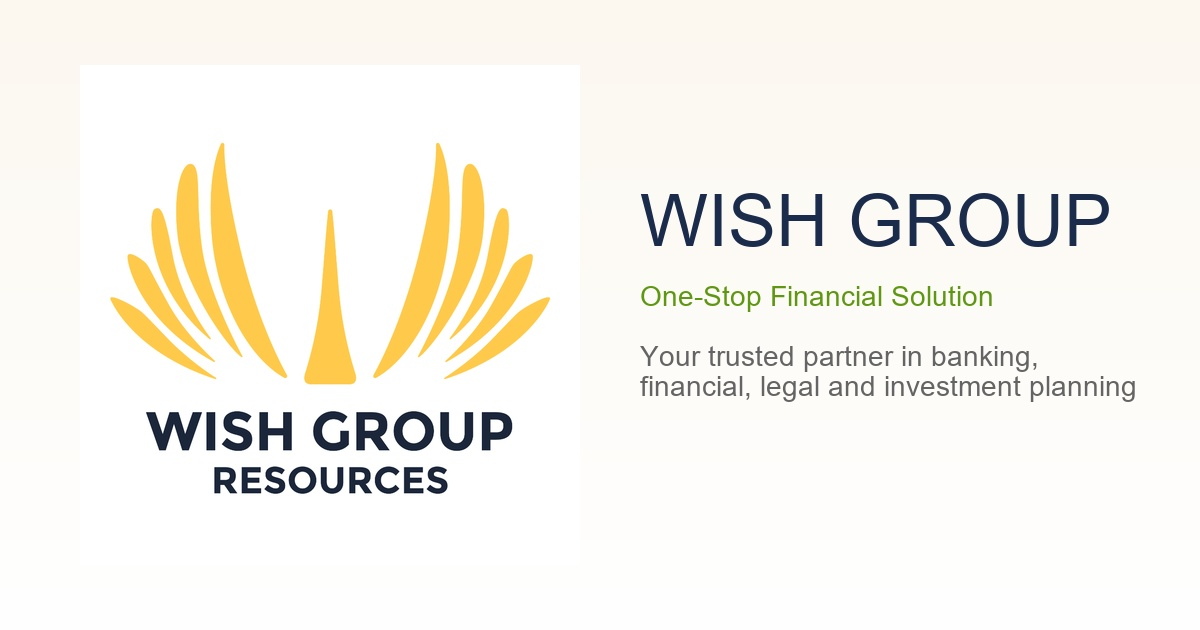
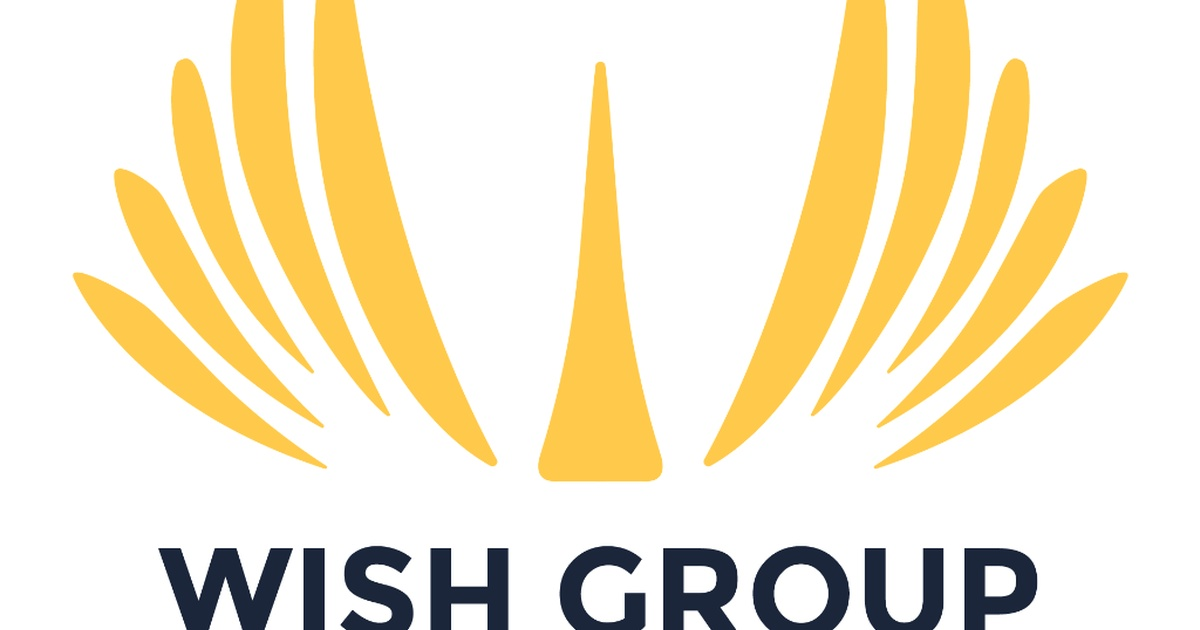
Add files via upload

diff --git a/create_final_card.py b/create_final_card.py
@@ -1,0 +1,66 @@
+from PIL import Image
+
+# Settings
+target_size = (1200, 630)
+source_path = 'c:/Users/ASUS/Desktop/holysheet/holysheet/public_html/images/wish-logo-source.png'
+output_path = 'c:/Users/ASUS/Desktop/holysheet/holysheet/public_html/images/wish-group-card.jpg'
+
+try:
+    logo = Image.open(source_path)
+    print(f"Original logo size: {logo.size}")
+    
+    # Create a landscape version by stretching the logo to fill width
+    # We'll make the logo fill the full width while maintaining aspect ratio for height
+    
+    # Calculate dimensions to fill the width
+    target_width = target_size[0]
+    aspect_ratio = logo.width / logo.height
+    
+    # Scale logo to fill the full width
+    new_width = target_width
+    new_height = int(new_width / aspect_ratio)
+    
+    # If height is less than target, we need to crop/adjust
+    if new_height < target_size[1]:
+        # Scale by height instead to ensure we fill the card
+        new_height = target_size[1]
+        new_width = int(new_height * aspect_ratio)
+    
+    # Resize the logo
+    resized_logo = logo.resize((new_width, new_height), Image.Resampling.LANCZOS)
+    
+    # Create the final canvas
+    canvas = Image.new("RGB", target_size, (255, 255, 255))
+    
+    # Center crop if needed
+    x_offset = (new_width - target_size[0]) // 2
+    y_offset = (new_height - target_size[1]) // 2
+    
+    if x_offset > 0 or y_offset > 0:
+        # Crop to fit
+        crop_box = (x_offset, y_offset, x_offset + target_size[0], y_offset + target_size[1])
+        final_image = resized_logo.crop(crop_box)
+    else:
+        # Paste centered
+        x_pos = (target_size[0] - new_width) // 2
+        y_pos = (target_size[1] - new_height) // 2
+        if logo.mode == 'RGBA':
+            canvas.paste(resized_logo, (x_pos, y_pos), resized_logo)
+        else:
+            canvas.paste(resized_logo, (x_pos, y_pos))
+        final_image = canvas
+    
+    # Convert to RGB if needed and save
+    if final_image.mode == 'RGBA':
+        rgb_image = Image.new('RGB', final_image.size, (255, 255, 255))
+        rgb_image.paste(final_image, mask=final_image.split()[3])
+        final_image = rgb_image
+    
+    final_image.save(output_path, 'JPEG', quality=95)
+    print(f"Successfully created landscape preview: {output_path}")
+    print(f"Final size: {final_image.size}")
+
+except Exception as e:
+    print(f"Error: {e}")
+    import traceback
+    traceback.print_exc()
